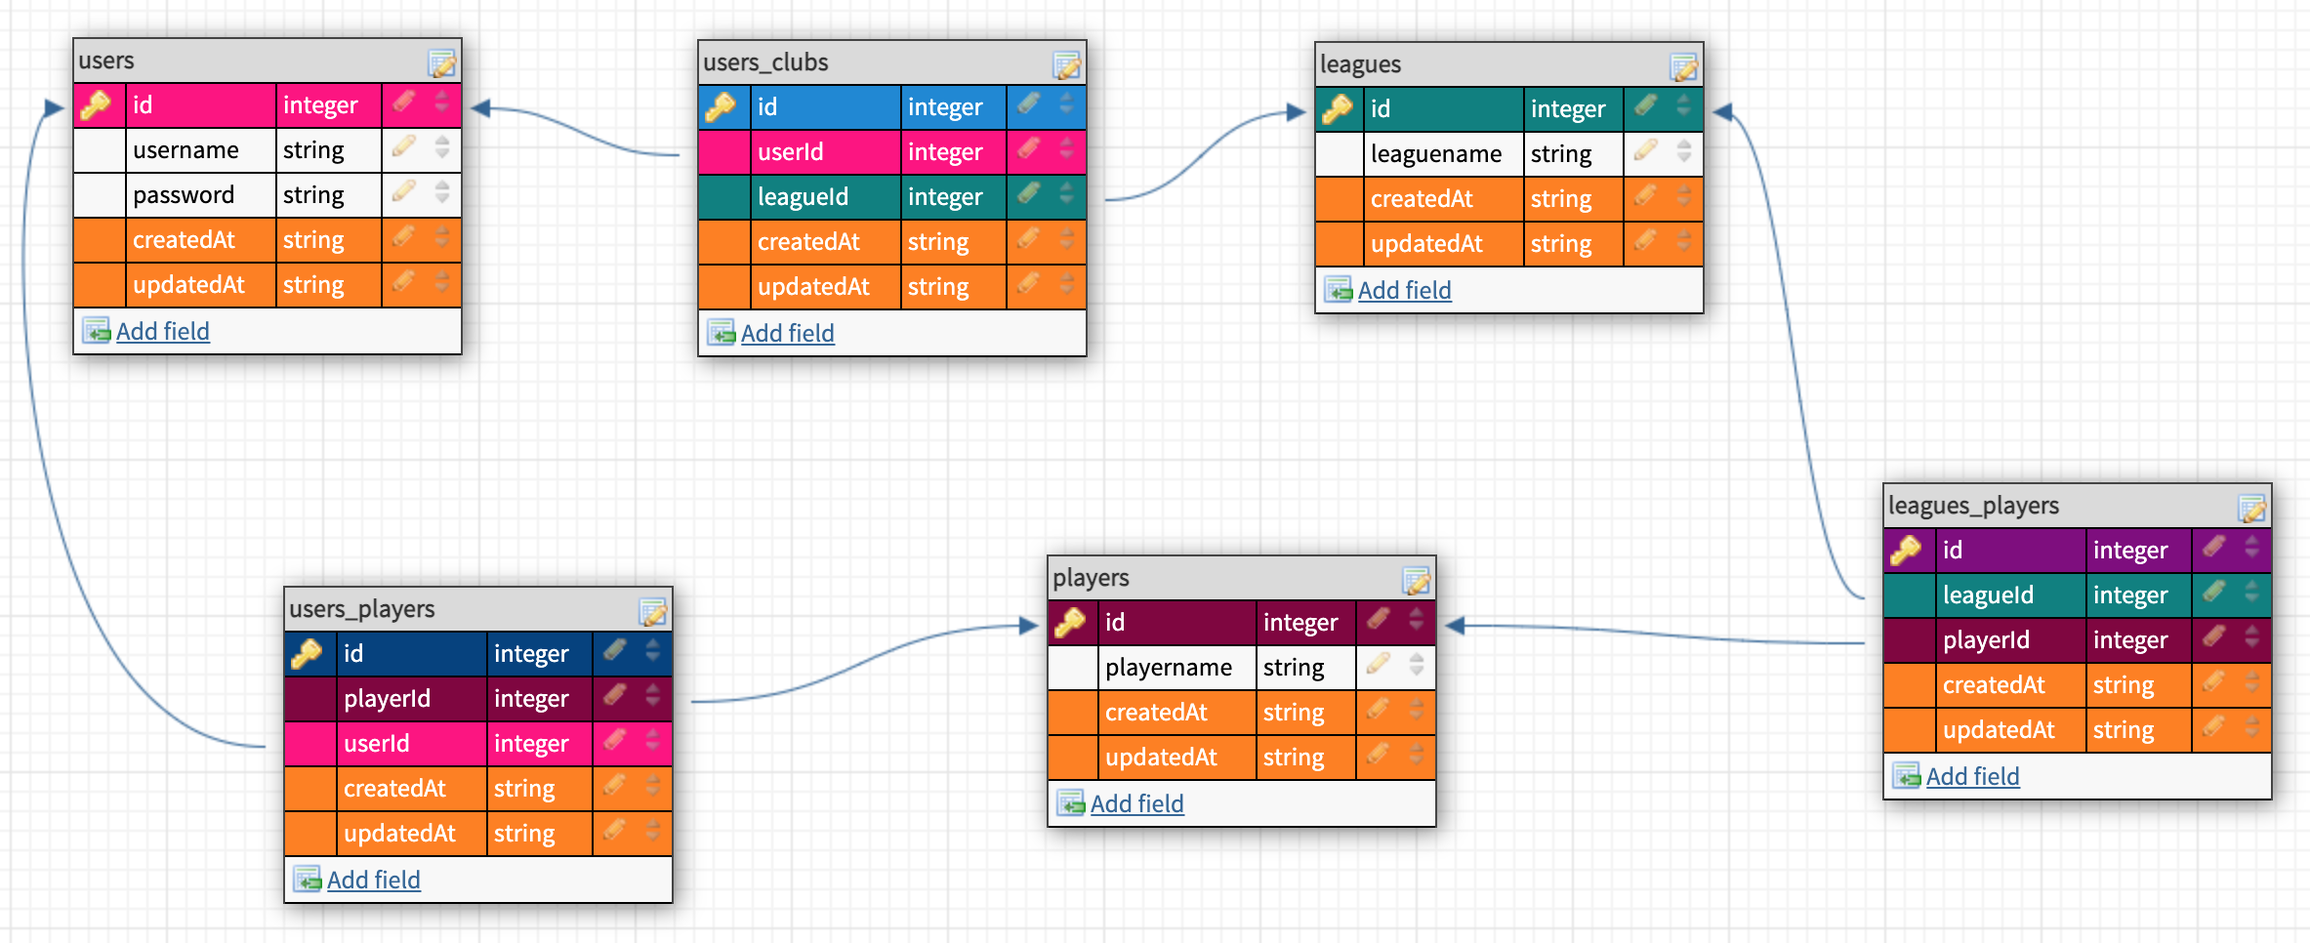
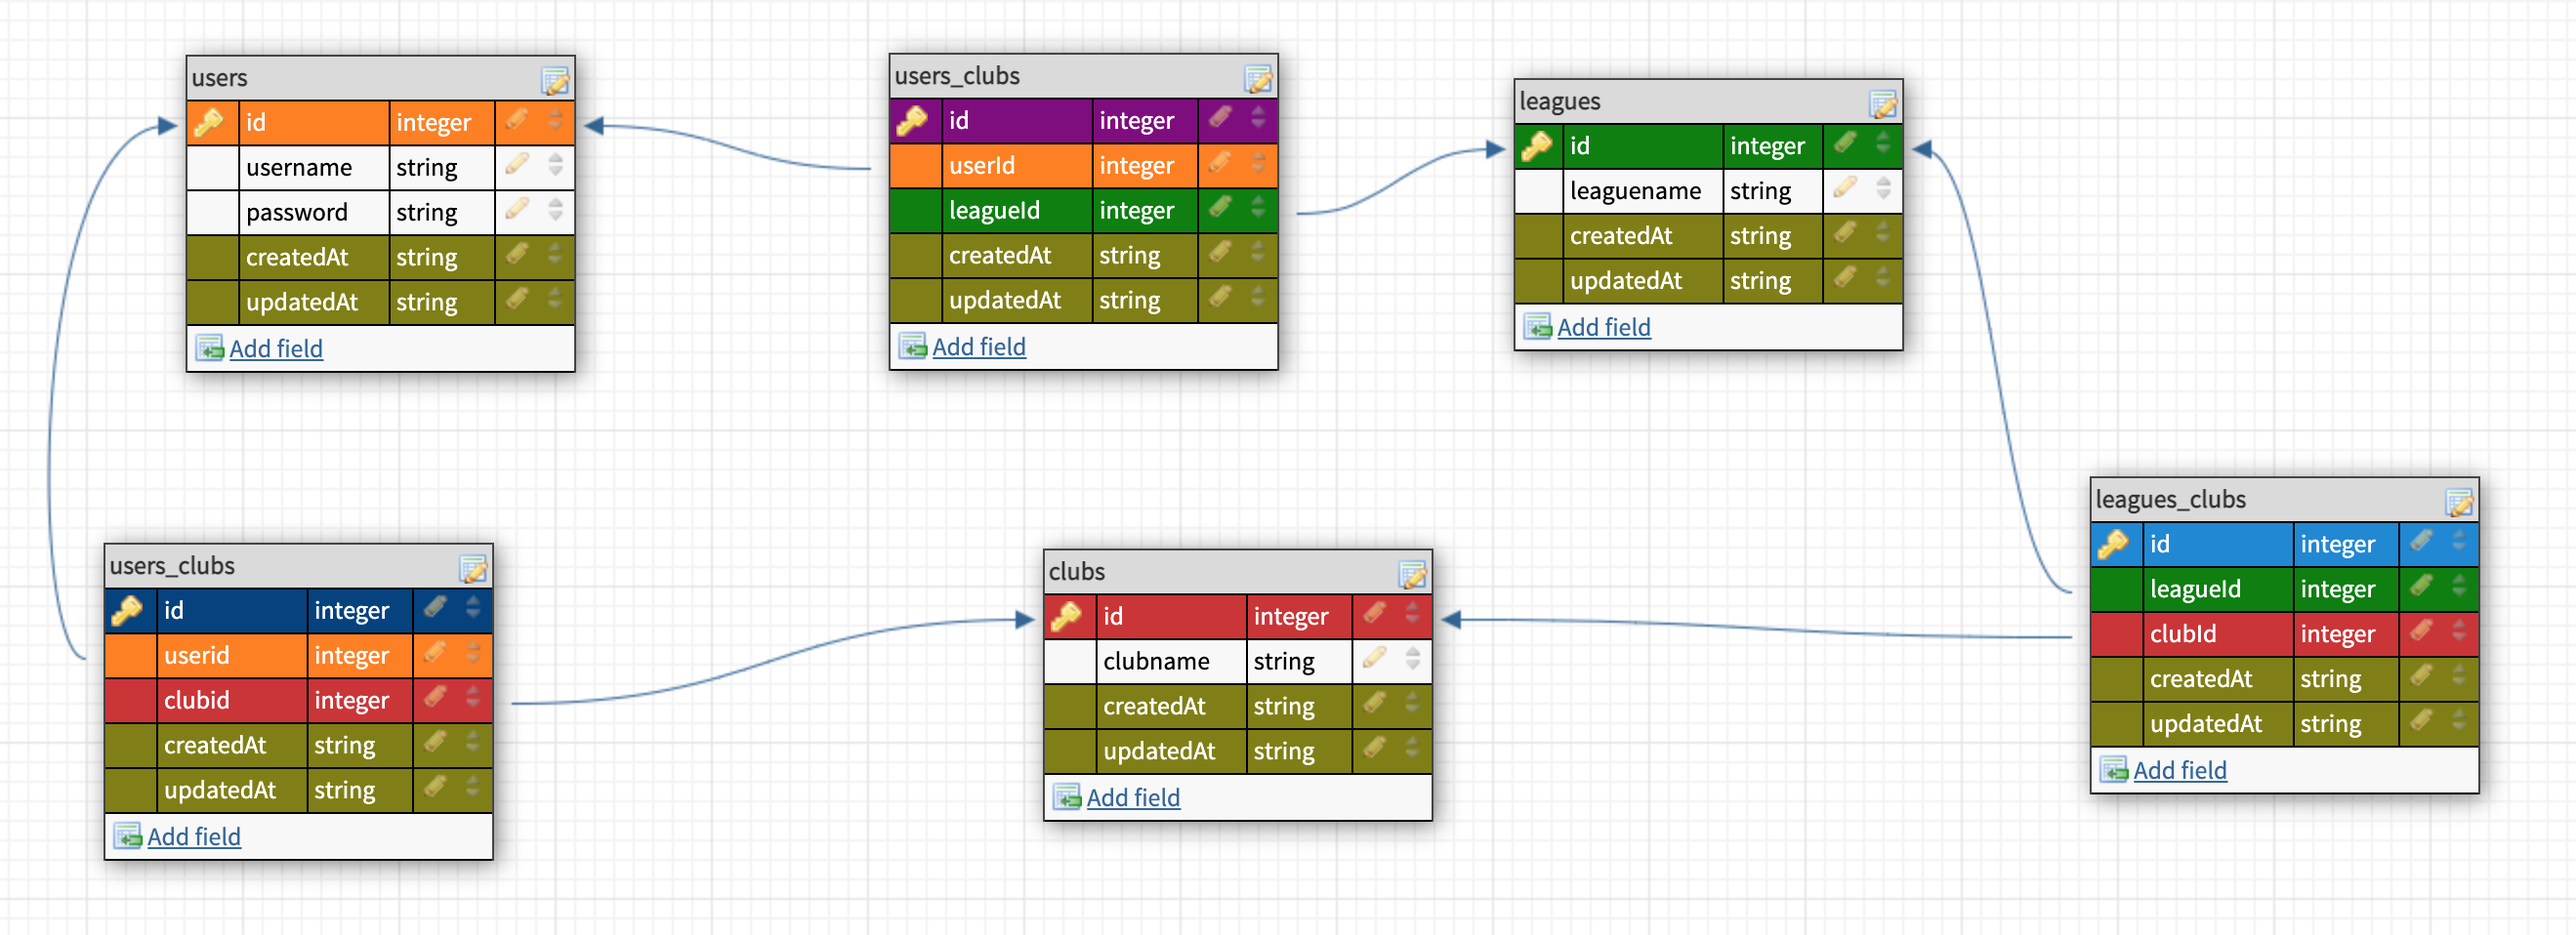
leagues and clubs added to the db

diff --git a/controllers/followCountroller.js b/controllers/followCountroller.js
@@ -1,14 +1,18 @@
-// const router = require('express').Router()
-// const db = require('../models')
+const router = require('express').Router()
+const db = require('../models')
+const axios = require('axios')
 
+router.get('/', async (req, res) => {
+    try {
+        const clubURL = `https://www.thesportsdb.com/api/v1/json/1/lookup_all_teams.php?id=4648` 
+        const response = await axios.get(clubURL)
+        const clubs = response.data.results
+        console.log(clubs);
 
-// router('/', async (req, res) => {
-//     try {
-//         const 
-//     } catch (err) {
-//         console.log(err);
-//     }
-// })
+    } catch (err) {
+        console.log(err);
+    }
+})
 
 
 

diff --git a/migrations/20210303050422-create-league.js b/migrations/20210303050422-create-league.js
@@ -1,0 +1,27 @@
+'use strict';
+module.exports = {
+  up: async (queryInterface, Sequelize) => {
+    await queryInterface.createTable('leagues', {
+      id: {
+        allowNull: false,
+        autoIncrement: true,
+        primaryKey: true,
+        type: Sequelize.INTEGER
+      },
+      leaguename: {
+        type: Sequelize.STRING
+      },
+      createdAt: {
+        allowNull: false,
+        type: Sequelize.DATE
+      },
+      updatedAt: {
+        allowNull: false,
+        type: Sequelize.DATE
+      }
+    });
+  },
+  down: async (queryInterface, Sequelize) => {
+    await queryInterface.dropTable('leagues');
+  }
+};

diff --git a/migrations/20210303050214-create-club.js b/migrations/20210303050214-create-club.js
@@ -1,0 +1,27 @@
+'use strict';
+module.exports = {
+  up: async (queryInterface, Sequelize) => {
+    await queryInterface.createTable('clubs', {
+      id: {
+        allowNull: false,
+        autoIncrement: true,
+        primaryKey: true,
+        type: Sequelize.INTEGER
+      },
+      clubname: {
+        type: Sequelize.STRING
+      },
+      createdAt: {
+        allowNull: false,
+        type: Sequelize.DATE
+      },
+      updatedAt: {
+        allowNull: false,
+        type: Sequelize.DATE
+      }
+    });
+  },
+  down: async (queryInterface, Sequelize) => {
+    await queryInterface.dropTable('clubs');
+  }
+};

diff --git a/models/league.js b/models/league.js
@@ -1,0 +1,23 @@
+'use strict';
+const {
+  Model
+} = require('sequelize');
+module.exports = (sequelize, DataTypes) => {
+  class league extends Model {
+    /**
+     * Helper method for defining associations.
+     * This method is not a part of Sequelize lifecycle.
+     * The `models/index` file will call this method automatically.
+     */
+    static associate(models) {
+      // define association here
+    }
+  };
+  league.init({
+    leaguename: DataTypes.STRING
+  }, {
+    sequelize,
+    modelName: 'league',
+  });
+  return league;
+};

diff --git a/models/club.js b/models/club.js
@@ -1,0 +1,23 @@
+'use strict';
+const {
+  Model
+} = require('sequelize');
+module.exports = (sequelize, DataTypes) => {
+  class club extends Model {
+    /**
+     * Helper method for defining associations.
+     * This method is not a part of Sequelize lifecycle.
+     * The `models/index` file will call this method automatically.
+     */
+    static associate(models) {
+      // define association here
+    }
+  };
+  club.init({
+    clubname: DataTypes.STRING
+  }, {
+    sequelize,
+    modelName: 'club',
+  });
+  return club;
+};
